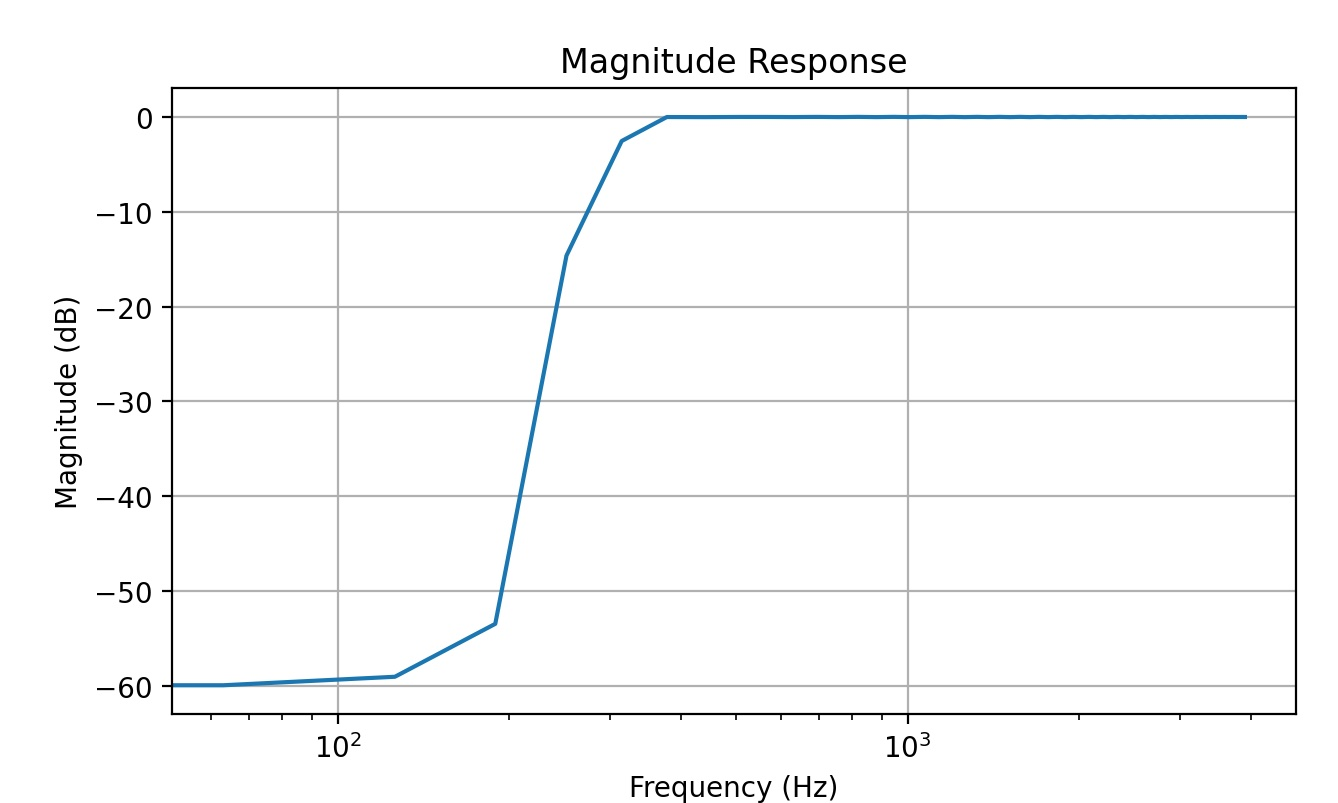
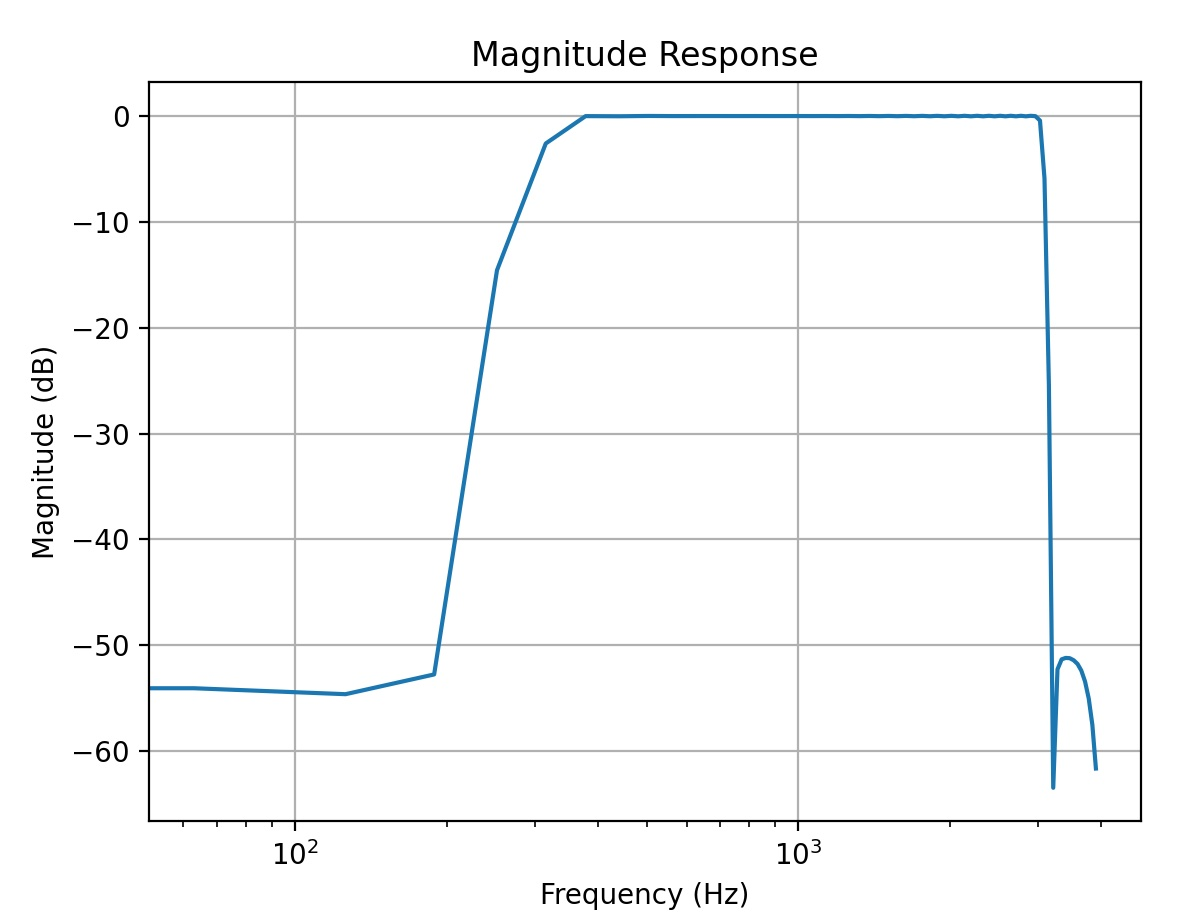
Docs

diff --git a/README.md b/README.md
@@ -211,6 +211,12 @@ samples<sub>delay</sub> = (N - 1) / 2
 
 So this filter introduces about 8ms of delay into the system.
 
+For reasons that will be explained later in the noise squelch
+section, I created another stop band above 3kHz, so this filter
+is actually a band-pass filter from 350Hz to 3kHz. The important
+part here is the low-end of the audio range since that is 
+what is relevant to CTCSS tone elimination.
+
 Here's a plot of the frequency response of the 127-tap filter
 created by the PM algorithm created using Matplotlib:
 
@@ -231,7 +237,7 @@ well.
 
 ![CTCSS Filter](docs/ctcss-filter-3.jpg)
 
-The 127 tap filter should work fine for the purposes of CTCSS
+This 127 tap filter should work fine for the purposes of CTCSS
 filtering.
 
 Technical Notes on CTCSS Tone Detection
@@ -244,8 +250,8 @@ Technical Notes on Transmit Bandwidth Limit
 
 (To be written)
 
-Technical Notes on Noise Squelch  
---------------------------------
+Technical Notes on the Noise Squelch IC From Motorola
+-----------------------------------------------------
 
 Not all radios have access to a reliable COS signal and some 
 radios may have inferior noise squelches. There are a few 
@@ -274,7 +280,7 @@ it's behavior.
 
 Quoting from WA1MIK's analysis, a _"noise squelch systems must ignore signals in the voice frequency range of about 300 to 3400 Hz. All of the high-pass filtering is designed to eliminate any voice energy and only look at the noise energy above 
 about 5 kHz."_ Conceptually, a "quieted" FM channel would contain 
-most of its energy in the voice band, whereas noise is broadband. 
+most of its energy concentrated in the voice band, whereas noise is broadband. 
 
 And from W3KKC's article: _"If the received quality of the input 
 signal provides at least 20 dB quieting, (above 1 uV on properly 
@@ -283,7 +289,7 @@ shut-off, and no squelch tail. If the signal is below 20 dB
 quieting, (below 1 uV, or having some noise), there is a squelch 
 tail of 150 milliseconds, long enough so there is no audio 
 chopping under "flutter" conditions ..."_. The chart entitled "M6709 Squelch Tail Threshold" in the WA1MIK analysis article summarizes 
-this "bi-level" behavior on the squelch tail.
+this bi-level behavior on the squelch tail.
 
 There are a few things that I'm assuming from these articles, 
 although not explicitly stated:
@@ -299,14 +305,52 @@ the 10dB of quieting is the threshold for opening the squelch.
 * The articles use the term "hysteresis" when describing 
 the M7716's functionality. It's not explicitly stated where
 the hysteresis loop manifests itself. I am assuming that this
-is referring to the fact that the mute->unmute transition 
-is immediate but the unmute->mute 
+is referring to the fact that the mute to unmute transition 
+is immediate but the unmute to mute 
 transition is delayed by 150ms in the case that a <20dB quieted
 signal is lost.
 * For example, I am assuming that a transition from 9dB of 
 quieting to 21dB and back to 9dB
 would result in the squelch immediate opening and
 then immediately closing, without delay or asymmetry.
+* I am also assuming that if the signal goes above 10dB at any 
+time during
+the 150ms delay period that the delay counter is reset and
+will start to count down again once the signal dips below
+10dB of quieting again.
+
+Technical Notes on My Implementation of a Noise Detector
+--------------------------------------------------------
+
+Given the theory about the M7716 above, we need to have
+a measure of the noise energy present in an input signal.
+This is a place where having an overly-wide (32kHz) ADC 
+sampling rate is a good thing. 
+
+A high-pass filter is used to extract the energy above
+5kHz.  If the transition band of this filter starts 
+at 4kHz and ends at 6kHz and -30dB of attenuation is 
+sufficient, the Harris Approximation tells us that a 
+21-tap FIR should be sufficient.
+
+Technical Notes on My Implementation of Noise Squelch
+-----------------------------------------------------
+
+I am replicating the behavior of the M7716 in software.
+Here are some notes on the implementation.
+
+First, we need to measure the level of quieting of an incoming
+signal. We'll do this by computing the ratio of the energy 
+in the audio band to the energy in noise band. 
+
+20 * log(RMS<sub>audio_band</sub>/RMS<sub>noise_band</sub>)
+
+This calculation is done every 25ms using contemporaneous 
+blocks of 200 samples from the output of the CTCSS filter 
+and 200 samples from the output of the high-pass noise detector.
+
+When the S/N ration goes about 10dB a valid signal is detected.
+
 
 Relevant FCC Regulations
 ========================
